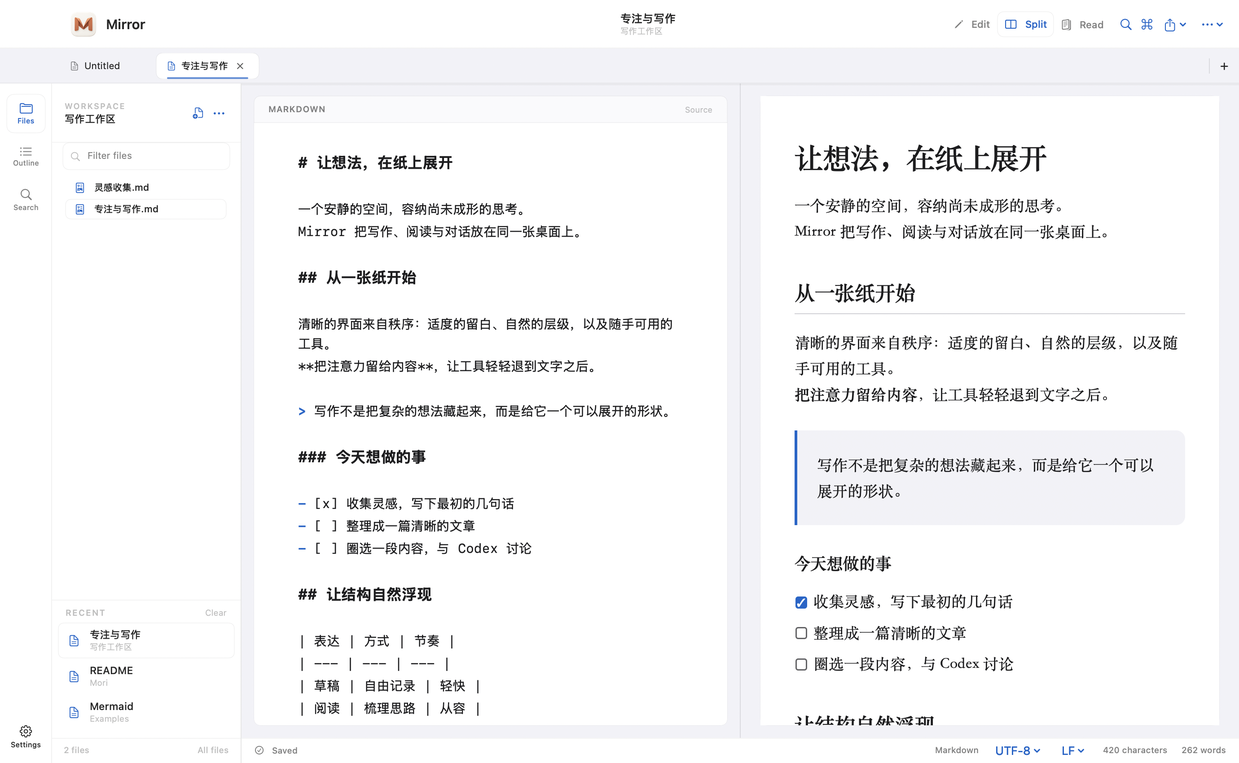
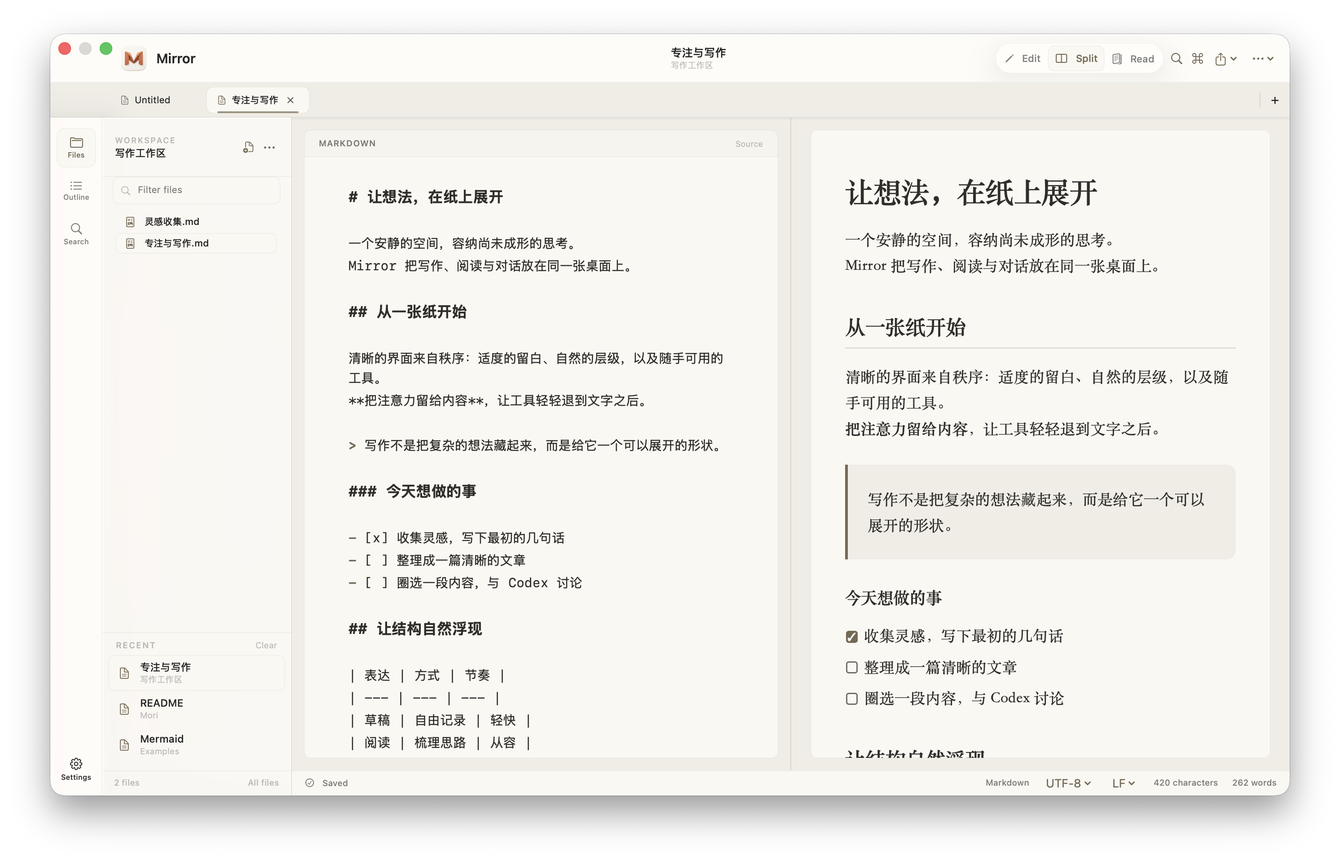
Simplify project overview and refresh v1.1 screenshots

diff --git a/README.md b/README.md
@@ -2,137 +2,40 @@
 
 简体中文 | [English](README_EN.md)
 
-Mirror 是一款原生 macOS Markdown 编辑器，专注于安静、清晰的写作体验。它将文件管理、源码编辑、实时预览与沉浸阅读整理在同一个轻量工作区中，并采用原生玻璃导航、清晰的内容区域和蓝色强调色。
+原生 macOS Markdown 编辑器，把写作、阅读和围绕原文的 AI 讨论放在同一个工作区。
 
-[下载 Mirror 1.1](https://github.com/BoneInk/Mirror/releases/latest) · 支持 macOS 14 及更高版本
+[下载 Mirror 1.1](https://github.com/BoneInk/Mirror/releases/tag/v1.1) · macOS 14+ · Intel / Apple Silicon
 
-## 界面预览
+## Mirror 的重点
 
-### 编辑与实时预览
+- **讨论留在原文旁。** 划词即可打开对话气泡，问题与引用位置关联。下次读到这里，可以点开标记回顾或继续提问；记录支持单独、批量删除。
+- **使用自己的智能体。** 可连接 Codex、Claude Code、Smartwork 等本机运行时或服务。在气泡里切换智能体、模型与支持的思考深度，自动记住选择；也支持自定义接入。
+- **写作与阅读连在一起。** 源码与预览双向同步滚动，一键进入阅读模式；文件树、大纲和本地文档历史随时可用。
+- **文档保留在本地。** 直接编辑 Markdown 文件，Mermaid 图表与数学公式离线渲染，可导出 HTML / PDF。只有发送提问时，问题与引用才会交给所选智能体。
 
-文件树与文档大纲可快速切换；Markdown 源码和格式化预览通过语义锚点保持双向滚动同步。
+## 界面
 
-![Mirror 的文件树、Markdown 源码和实时预览](docs/images/native-editor-light.png)
+![源码编辑与实时预览](docs/images/native-editor-light.png)
 
-### 阅读模式
+![沉浸式阅读](docs/images/native-reader-dark.png)
 
-阅读模式隐藏源码噪音，提供贯穿窗口的纸张画布、章节导航、阅读进度和轻量排版工具。
+## 开始使用
 
-![Mirror 沉浸式阅读模式](docs/images/native-reader-dark.png)
+下载安装包，将 Mirror 拖入 Applications。选中文字后点击「提问」；`Return` 发送，`⌘ Return` 换行，`Esc` 关闭气泡。
 
-### Mermaid 图表
+在设置中配置智能体和气泡记忆。不同运行时需要各自的安装、登录或服务配置；WorkBuddy 需要授权 Token，千问办公目前通过自定义桥接接入。详见[智能体接入说明](docs/agents.md)。
 
-Mermaid 图表在本地离线渲染，可以在分栏模式中一边编辑源码、一边查看结果。
+安装包使用 ad-hoc 签名，尚未完成 Apple 公证。
 
-![Mirror 编辑并预览 Mermaid 时序图](docs/images/mermaid-preview.png)
+## 从源码构建
 
-## 核心功能
-
-- 原生 Markdown 编辑器，支持语法高亮、实时预览及双向滚动同步
-- 工作区文件树、最近文件、标签页、全文搜索和文档大纲
-- 沉浸式阅读模式，可调整阅读宽度、字体、行高与主题
-- 内置表格、代码高亮、图片、HTML、Mermaid 图表和 KaTeX 公式渲染
-- 简体中文默认界面，可切换 English，并支持浅色、深色与自定义主题
-- Codex 对话小窗：圈选内容携带引用，无选区右键新建对话，支持连续追问
-- 自动保存、崩溃恢复、外部修改检测和本地文档历史
-- 导出便携 HTML、PDF，或使用原生 macOS 打印流程
-
-Mirror 兼容常用 CommonMark 与 GitHub 风格 Markdown，包括任务列表、脚注、表格、引用式链接、围栏代码块和安全 HTML。文本与源码文件可直接编辑，图片、PDF 和常见二进制文档可在应用内预览。
-
-## macOS 原生外观
-
-导航、侧边栏和浮动操作采用系统 Liquid Glass，正文使用清晰的实色背景。默认提供 `Mirror Light` 与 `Mirror Dark`，保留已有主题 ID 和自定义色板。macOS 26 使用原生玻璃效果；旧版系统使用标准材质，开启降低透明度或增强对比度时导航采用实色背景。
-
-设计说明见 [原生样式说明](Resources/Brand/NativeStyle.md)。`./scripts/test-native-visual.sh` 在隔离工作区检查各界面。
-
-## 引用对话气泡
-
-- **有选区**：源码编辑区右键选择「引用并提问」，或点击阅读预览中的浮动按钮。小窗自动附上原文和文档来源，可移除引用、补充问题后发送。
-- **原文关联**：引用携带源码行号（阅读预览显示所在段落的起始行），原生 Popover 气泡指向选区，采用系统材质与动画。点击「回到原文」定位并高亮实际选区，重复文本也能区分；发送后仍可回跳。开启记忆后，在已提问的位置留下对话标记，点击可回顾或继续原会话。标记通过引用内容与上下文重新定位；无法唯一匹配时隐藏，避免跳错位置。
-- **无选区**：在源码区或阅读区右键选择「打开对话气泡」，开始独立对话。
-- 气泡初始仅显示引用与输入框，开始对话后展开左右消息气泡；来源只显示一次。支持连续追问、流式回答、停止生成，`Return` 发送，`⌘ Return` 换行（输入法选词时回车不会发送）。Esc 或点击气泡外关闭，并清除原文临时选区；全局只显示一个对话气泡。开启记忆时，关闭气泡后尚未完成的回答会继续接收并保存。
-- 点击「在 Codex 中打开」可打开对应会话；尚未发送时，打开预填问题和引用的新会话。使用当前 Codex 应用的深链接，不需要复制粘贴或 macOS 辅助功能权限。
-
-**设置 → 气泡记忆 → 记住引用位置和对话**：默认开启，只在本机保存，不修改原文。关闭后隐藏标记并停止新增保存；已有记录保留，可重新开启或手动清除。未保存的文档不生成持久位置记忆。
-
-需先安装并登录 Codex 桌面应用或 Codex CLI。Mirror 优先使用桌面应用内置的 Codex，通过本地 stdio App Server 复用登录，不保存登录凭据。小窗用于文档问答，以只读权限运行；需要执行操作时可转到 Codex 应用。仅在点击发送后才提交问题与引用。
-
-接入协议：[Codex App Server](https://learn.chatgpt.com/docs/app-server)。应用深链接以当前安装版本为准。
-
-验证选区、引用格式、会话隔离、多轮流式回复、停止与错误恢复：
+需要 Swift 6 工具链：
 
 ```bash
-bash scripts/test-codex-reference.sh
-bash scripts/test-codex-bubble.sh
-bash scripts/test-codex-memory.sh
-# 锁屏或无前台时仅验证标记/记忆逻辑，跳过原生焦点和截图
-bash scripts/test-codex-memory.sh --headless
-# 可选：用当前 Codex 登录做一次真实回复测试，并输出小窗布局截图
-./scripts/test-codex-reference.sh --live --visual
-```
-
-## 构建
-
-需要 macOS 14 或更高版本，以及 Swift 6 工具链。
-
-```bash
-swift build
 swift run Mirror
+# 生成通用应用与安装包
+bash scripts/build-app.sh release
+bash scripts/build-dmg.sh --skip-build
 ```
 
-生成 Universal 2 应用和可安装 DMG：
-
-```bash
-./scripts/build-app.sh release
-./scripts/build-dmg.sh --skip-build
-```
-
-构建产物位于 `dist/Mirror.app` 和 `dist/Mirror-1.1.dmg`。本地脚本使用临时签名；公开分发仍需 Apple Developer ID 签名和 Apple 公证。
-
-
-### 多智能体引用提问
-
-在 **设置 → 智能体** 中选择默认智能体、添加或编辑连接配置。气泡标题手动切换智能体时，会同步更新并保存设置中的默认值，之后新开的气泡沿用上次选择；已有对话切换时另起一段对话，原记录保留。回顾旧记录不会改变默认值。旧版本的对话继续归属 Codex。
-
-| 智能体 | 接入方式 |
-| --- | --- |
-| Codex | 原有 app-server；自动发现桌面应用 / CLI，可指定命令路径和模型 |
-| Claude Code | 本机 `claude` 的非交互 JSON 输出；复用 CLI 登录 |
-| OpenCode | 本机 `opencode run --format json`；复用 CLI 配置 |
-| Pi Agent | 本机 `pi --print --mode json`；复用 CLI 配置 |
-| OpenClaw | Gateway 的 OpenAI 兼容接口，默认基础地址 `http://127.0.0.1:18789/v1`、智能体 `openclaw/default` |
-| CodeBuddy | `codebuddy` / `cbc` 非交互 JSON 输出；不会将 IDE 启动器 `buddycn` 当作 Agent |
-| Cursor | `cursor-agent` / `agent` 的 Ask 模式；需要安装 Cursor CLI，桌面应用本身不等于 CLI |
-| Kimi | `kimi --quiet --plan`，复用 CLI 登录 |
-| Qoder | `qoder` / `qodercli` 非交互文本输出 |
-| Hermes | 官方 Agent API Server，默认 `http://127.0.0.1:8642/v1`，标识 `hermes-agent`；需启用 API Server 并配置 Key |
-| Smartwork | D-Chat 内置 Agent 原生协议，默认 `http://127.0.0.1:8764`；复用客户端模型和登录 |
-| WorkBuddy | 官方本地助理 Open API；需填入具有 localassistant.readable / invokable 权限的 Access Token，并保持电脑端在线 |
-| 千问办公 | 可配置办公 Agent 包装命令 / 兼容服务；尚未确认公开的问答协议，不等同于普通千问模型接口 |
-| DeepSeek Harness / 自定义 | 配置兼容 HTTP 服务，或通过自定义命令包装专有协议 |
-
-打开设置自动检测常见命令路径（包括 Homebrew、NVM、用户 bin），并列出当前用户可见的本机监听端口。端口列表仅用于定位服务，不推断它是哪个智能体，也不发送测试提问；已配置的 localhost HTTP 服务仅以匿名 `GET /models` 检查响应。Smartwork 另外匿名检查 `/api/agent/health` 的名称与协议标识，本机服务已验证；未知服务需手动填写地址与协议。扫描不会读取认证信息或发起模型调用。
-
-HTTP 配置使用包含 `/v1` 的基础地址、模型/智能体标识，以及可选的 API Key / Bearer Token。认证信息存于 macOS 钥匙串，不写入对话记录。OpenClaw 需要先启用 Gateway 的 `chatCompletions` 端点。远端工具权限由服务端控制。
-
-自定义命令的参数为 JSON 字符串数组，例如 `["--print"]`。Mirror 直接启动可执行文件，不经过 shell；stdin 传入阅读助手说明和 JSON 编码的完整对话，stdout 返回 UTF-8 回答，stderr 用于命令自身诊断。每轮重新启动，包装脚本负责对接专有协议、认证与退出信号。不要把密钥放入参数。
-
-Codex 沿用服务端会话；其他连接每轮携带 Mirror 保存的对话上下文，避免借用 CLI 的“最近会话”。配置快照保存在对应的气泡记忆中，之后修改默认服务不会改变旧记录的去向。Claude / CodeBuddy / Qoder / Pi 禁用内置工具，OpenCode 使用专用阅读配置禁止工具，Cursor 使用 Ask 模式、Kimi 使用 Plan 模式；这些 CLI 选项需要较新版本。未安装或版本不支持时，气泡显示错误并保留问题供重试。
-
-验证：`bash scripts/test-agents.sh` 使用本地假 CLI 与 HTTP 服务覆盖流式输出、Unicode、多轮、取消、错误、重定向阻止、配置持久化和历史归属；不会调用真实模型。
-
-协议依据：[Claude Code](https://code.claude.com/docs/en/headless)、[OpenCode CLI](https://opencode.ai/docs/cli/)、[Pi JSON](https://github.com/badlogic/pi-mono/blob/main/packages/coding-agent/docs/json.md)、[OpenClaw Gateway](https://docs.openclaw.ai/gateway/openai-http-api)。新增协议依据：[CodeBuddy](https://www.codebuddy.ai/docs/cli/cli-reference)、[Cursor](https://prod.cursor.com/docs/cli/using)、[Kimi](https://moonshotai.github.io/kimi-cli/en/reference/kimi-command.html)、[Qoder](https://docs.qoder.com/cli/cli-reference)、[Hermes Agent API](https://hermes-agent.nousresearch.com/docs/user-guide/features/api-server)、[WorkBuddy Open API](https://open.workbuddy.cn/docs/openapi)。Smartwork 对照本机客户端打包的 `smartwork-agent-turns-v1` 实现，并完成匿名健康检查；其余新接口通过模拟服务验证，未发送真实模型问题。
-
-WorkBuddy 使用共享的本地助理消息通道，返回本次消息后的首条文字回复；请避免同时从其他入口向它提问。Mirror 检测到其他用户消息时停止归属这次回复，权限确认需在 WorkBuddy 中处理。停止等待或删除本机记录不会终止 WorkBuddy 中已接收的任务。Access Token 到期后需要重新授权并更新；Mirror 不内置第三方应用的 OAuth 客户端密钥。
-
-千问办公公开开发文档目前展示管理接口，故预设标为待配置；只有接好办公 Agent 桥接后才能使用。不会将 `qwen` 模型 CLI 或阿里云普通模型 API 自动认作千问办公。
-
-
-### v1.1 交互更新
-
-- 划词提问入口跟随鼠标选区的结束端；支持反向拖选、跨行选区和窗口边缘避让。
-- 气泡输入框按 `Return` 发送，`⌘ Return` 插入换行。中文输入法组合文本期间，回车先交给输入法，不发送问题。
-- 气泡详情右上角的垃圾桶按钮和右键菜单可删除当前本机记录；原文旁的气泡标记也支持右键删除。同一位置多条记录可单独删除或全部删除。**设置 → 气泡记忆** 支持搜索、单条删除、批量编辑选择、全选当前结果和批量删除。
-- 删除立即移除原文标记，停止对应的后台生成保存，避免记录重新出现；其他记录不受影响。删除只作用于 Mirror 本机记忆，不删除智能体服务端会话。
-
-- 系统文件目录授权弹窗、文件选择面板和临时失焦不关闭气泡或清空输入；主动点击外部与 Esc 仍可关闭。
+产物位于 `dist/`。回归检查见 `scripts/test-*.sh`。

diff --git a/README_EN.md b/README_EN.md
@@ -2,84 +2,40 @@
 
 [简体中文](README.md) | English
 
-Mirror is a native macOS Markdown editor designed for a calm, clear writing experience. It brings file management, source editing, live preview, and immersive reading into one lightweight workspace, using native glass navigation, clear content surfaces, and a blue accent.
+A native macOS Markdown editor for writing, reading, and AI conversations anchored to your document.
 
-[Download Mirror 1.1](https://github.com/BoneInk/Mirror/releases/latest) · Requires macOS 14 or newer
+[Download Mirror 1.1](https://github.com/BoneInk/Mirror/releases/tag/v1.1) · macOS 14+ · Intel / Apple Silicon
+
+## What Mirror focuses on
+
+- **Conversations beside the text.** Select a passage to ask a question. Reopen its document marker to revisit or continue the discussion. Delete records individually or in batches.
+- **Your choice of agent.** Connect Codex, Claude Code, Smartwork, and other local runtimes or services. Switch agents, models, and supported thinking levels in the bubble. Mirror remembers your choices and supports custom connections.
+- **Writing and reading together.** Source and preview scroll in sync. Switch to reader mode while keeping your file tree, outline, and local document history close at hand.
+- **Local documents.** Edit Markdown files directly, render Mermaid diagrams and math offline, and export HTML or PDF. Questions and quotations are sent to your chosen agent only when you submit them.
 
 ## Screenshots
 
-### Writing and live preview
+![Source editing and live preview](docs/images/native-editor-light.png)
 
-The file tree and document outline are easy to switch between, while Markdown source and formatted preview stay synchronized through semantic anchors.
+![Immersive reading](docs/images/native-reader-dark.png)
 
-![Mirror file tree, Markdown source, and live preview](docs/images/native-editor-light.png)
+## Get started
 
-### Reader mode
+Download the DMG and drag Mirror into Applications. Select text and click Ask. `Return` sends, `⌘ Return` inserts a newline, and `Esc` closes the bubble.
 
-Reader mode removes source-level noise and provides a full-height paper canvas, heading navigation, reading progress, and lightweight typography controls.
+Configure agents and conversation memory in Settings. Each runtime requires its own installation, login, or service configuration. WorkBuddy requires an authorized token; QwenWork currently requires a custom bridge. See the [agent setup guide (Chinese)](docs/agents.md).
 
-![Mirror immersive reader mode](docs/images/native-reader-dark.png)
+The app is ad-hoc signed and has not been notarized by Apple.
 
-### Mermaid diagrams
+## Build from source
 
-Mermaid diagrams render locally and offline, so source and results can be viewed side by side while editing.
-
-![Mirror editing and previewing a Mermaid sequence diagram](docs/images/mermaid-preview.png)
-
-## Core features
-
-- Native Markdown editing with syntax highlighting, live preview, and bidirectional scroll sync
-- Workspace file tree, recent files, tabs, folder search, and document outline
-- Immersive reader mode with adjustable width, typography, line height, and themes
-- Built-in rendering for tables, highlighted code, images, HTML, Mermaid, and KaTeX
-- Simplified Chinese by default, optional English, plus light, dark, and custom themes
-- Autosave, crash recovery, external-change detection, and local document history
-- Portable HTML and PDF export with the native macOS print workflow
-
-Mirror supports commonly used CommonMark and GitHub-style Markdown, including task lists, footnotes, tables, reference links, fenced code, and safe HTML. Text and source files open as editable documents, while images, PDFs, and common binary formats can be previewed inside the app.
-
-## Native macOS appearance
-
-Navigation and floating controls use system Liquid Glass on macOS 26, with standard material fallbacks on earlier versions. Content stays opaque for readability. Mirror Light and Mirror Dark use neutral palettes, while existing theme IDs and custom palettes remain supported. Navigation becomes opaque with Reduce Transparency or Increase Contrast enabled.
-
-Run `./scripts/test-native-visual.sh` for isolated visual checks.
-
-## Build
-
-Requires macOS 14 or newer and the Swift 6 toolchain.
+Requires the Swift 6 toolchain:
 
 ```bash
-swift build
 swift run Mirror
+# Build the universal app and DMG
+bash scripts/build-app.sh release
+bash scripts/build-dmg.sh --skip-build
 ```
 
-Build the Universal 2 app and an installable DMG:
-
-```bash
-./scripts/build-app.sh release
-./scripts/build-dmg.sh --skip-build
-```
-
-Outputs are written to `dist/Mirror.app` and `dist/Mirror-1.1.dmg`. Local builds use an ad-hoc signature; public distribution still requires Apple Developer ID signing and Apple notarization.
-
-## Codex chat panel
-
-Select text and use the source editor context menu or the preview selection button to open a Codex chat with a document reference. Right-click without a selection to start a separate blank chat. Panels support follow-up questions, streamed answers, and cancellation. “Open in Codex” opens the conversation or a prefilled draft through the installed desktop app's deep link, without clipboard or Accessibility access.
-
-The panel uses the local Codex App Server and your existing login. Install and sign in to Codex first. Run `./scripts/test-codex-reference.sh` for offline coverage, or add `--live --visual` for an optional live connectivity test and panel screenshot.
-
-
-### v1.1 interaction updates
-
-The selection action follows the end of the drag, including backward and multiline selections, and stays inside the viewport. Return sends a question; Command-Return inserts a newline. Return during IME composition remains available for candidate confirmation.
-
-Delete a local conversation from the bubble title menu, or use Settings → Bubble Memory to search, select, and delete multiple records. Deleting a record removes its document marker and stops its pending background generation from restoring it. Agent-side sessions are retained.
-
-
-### Agent connections
-
-Settings includes Codex, Claude Code, CodeBuddy, Cursor, Kimi, Qoder, OpenCode, Pi, Hermes, Smartwork, OpenClaw, WorkBuddy, DeepSeek Harness, QwenWork, and custom profiles. CLI adapters reuse local login; Hermes/OpenClaw use their Agent HTTP servers. Smartwork uses the D-Chat local Agent protocol with an anonymous health check. WorkBuddy uses its local-assistant Open API and requires an authorized access token and an online desktop client. Its shared channel should not receive concurrent questions from other apps; stopping Mirror only stops waiting for the reply.
-
-QwenWork (千问办公) is a configurable bridge preset, not a verified native conversation adapter or an alias for a Qwen model API. See the [connection table and setup details](README.md#多智能体引用提问). New protocols have offline fixture coverage; no real inference requests were sent during validation.
-
-System file-access permission prompts and file panels preserve the bubble and its draft. Esc and intentional outside clicks still dismiss it.
+Outputs are in `dist/`. Regression checks are in `scripts/test-*.sh`.

diff --git a/docs/agents.md b/docs/agents.md
@@ -1,0 +1,49 @@
+# 智能体接入
+
+[返回项目首页](../README.md)
+
+在 **设置 → 智能体** 中选择默认智能体、添加或编辑连接配置。气泡标题手动切换智能体时，会同步更新并保存设置中的默认值，之后新开的气泡沿用上次选择；已有对话切换时另起一段对话，原记录保留。回顾旧记录不会改变默认值。旧版本的对话继续归属 Codex。
+
+| 智能体 | 接入方式 |
+| --- | --- |
+| Codex | 原有 app-server；自动发现桌面应用 / CLI，可指定命令路径和模型 |
+| Claude Code | 本机 `claude` 的非交互 JSON 输出；复用 CLI 登录 |
+| OpenCode | 本机 `opencode run --format json`；复用 CLI 配置 |
+| Pi Agent | 本机 `pi --print --mode json`；复用 CLI 配置 |
+| OpenClaw | Gateway 的 OpenAI 兼容接口，默认基础地址 `http://127.0.0.1:18789/v1`、智能体 `openclaw/default` |
+| CodeBuddy | `codebuddy` / `cbc` 非交互 JSON 输出；不会将 IDE 启动器 `buddycn` 当作 Agent |
+| Cursor | `cursor-agent` / `agent` 的 Ask 模式；需要安装 Cursor CLI，桌面应用本身不等于 CLI |
+| Kimi | `kimi --quiet --plan`，复用 CLI 登录 |
+| Qoder | `qoder` / `qodercli` 非交互文本输出 |
+| Hermes | 官方 Agent API Server，默认 `http://127.0.0.1:8642/v1`，标识 `hermes-agent`；需启用 API Server 并配置 Key |
+| Smartwork | D-Chat 内置 Agent 原生协议，默认 `http://127.0.0.1:8764`；复用客户端模型和登录 |
+| WorkBuddy | 官方本地助理 Open API；需填入具有 localassistant.readable / invokable 权限的 Access Token，并保持电脑端在线 |
+| 千问办公 | 可配置办公 Agent 包装命令 / 兼容服务；尚未确认公开的问答协议，不等同于普通千问模型接口 |
+| DeepSeek Harness / 自定义 | 配置兼容 HTTP 服务，或通过自定义命令包装专有协议 |
+
+打开设置自动检测常见命令路径（包括 Homebrew、NVM、用户 bin），并列出当前用户可见的本机监听端口。端口列表仅用于定位服务，不推断它是哪个智能体，也不发送测试提问；已配置的 localhost HTTP 服务仅以匿名 `GET /models` 检查响应。Smartwork 另外匿名检查 `/api/agent/health` 的名称与协议标识，本机服务已验证；未知服务需手动填写地址与协议。扫描不会读取认证信息或发起模型调用。
+
+HTTP 配置使用包含 `/v1` 的基础地址、模型/智能体标识，以及可选的 API Key / Bearer Token。认证信息存于 macOS 钥匙串，不写入对话记录。OpenClaw 需要先启用 Gateway 的 `chatCompletions` 端点。远端工具权限由服务端控制。
+
+自定义命令的参数为 JSON 字符串数组，例如 `["--print"]`。Mirror 直接启动可执行文件，不经过 shell；stdin 传入阅读助手说明和 JSON 编码的完整对话，stdout 返回 UTF-8 回答，stderr 用于命令自身诊断。每轮重新启动，包装脚本负责对接专有协议、认证与退出信号。不要把密钥放入参数。
+
+Codex 沿用服务端会话；其他连接每轮携带 Mirror 保存的对话上下文，避免借用 CLI 的“最近会话”。配置快照保存在对应的气泡记忆中，之后修改默认服务不会改变旧记录的去向。Claude / CodeBuddy / Qoder / Pi 禁用内置工具，OpenCode 使用专用阅读配置禁止工具，Cursor 使用 Ask 模式、Kimi 使用 Plan 模式；这些 CLI 选项需要较新版本。未安装或版本不支持时，气泡显示错误并保留问题供重试。
+
+验证：`bash scripts/test-agents.sh` 使用本地假 CLI 与 HTTP 服务覆盖流式输出、Unicode、多轮、取消、错误、重定向阻止、配置持久化和历史归属；不会调用真实模型。
+
+协议依据：[Claude Code](https://code.claude.com/docs/en/headless)、[OpenCode CLI](https://opencode.ai/docs/cli/)、[Pi JSON](https://github.com/badlogic/pi-mono/blob/main/packages/coding-agent/docs/json.md)、[OpenClaw Gateway](https://docs.openclaw.ai/gateway/openai-http-api)。新增协议依据：[CodeBuddy](https://www.codebuddy.ai/docs/cli/cli-reference)、[Cursor](https://prod.cursor.com/docs/cli/using)、[Kimi](https://moonshotai.github.io/kimi-cli/en/reference/kimi-command.html)、[Qoder](https://docs.qoder.com/cli/cli-reference)、[Hermes Agent API](https://hermes-agent.nousresearch.com/docs/user-guide/features/api-server)、[WorkBuddy Open API](https://open.workbuddy.cn/docs/openapi)。Smartwork 对照本机客户端打包的 `smartwork-agent-turns-v1` 实现，并完成匿名健康检查；其余新接口通过模拟服务验证，未发送真实模型问题。
+
+WorkBuddy 使用共享的本地助理消息通道，返回本次消息后的首条文字回复；请避免同时从其他入口向它提问。Mirror 检测到其他用户消息时停止归属这次回复，权限确认需在 WorkBuddy 中处理。停止等待或删除本机记录不会终止 WorkBuddy 中已接收的任务。Access Token 到期后需要重新授权并更新；Mirror 不内置第三方应用的 OAuth 客户端密钥。
+
+千问办公公开开发文档目前展示管理接口，故预设标为待配置；只有接好办公 Agent 桥接后才能使用。不会将 `qwen` 模型 CLI 或阿里云普通模型 API 自动认作千问办公。
+
+
+
+## 模型与思考深度
+
+气泡顶部的调节按钮可设置模型 ID 和思考深度，并同步保存到设置。留空表示沿用智能体默认配置。对已有讨论应用新配置会开启新对话，保留旧记录与未发送草稿。
+
+- Codex、Claude Code、Pi 支持显式思考深度；可用级别取决于模型和本机 CLI 版本。
+- Smartwork 支持模型 ID（或 `provider::model`），思考深度由客户端管理。
+- 其他原生 CLI 与兼容 HTTP 接入支持模型配置；WorkBuddy、自定义命令由对应客户端或包装脚本管理。
+- 暂未确认深度协议的接入不会发送推测参数。Pi 参数依据[官方 CLI 文档](https://github.com/badlogic/pi-mono/tree/main/packages/coding-agent#model-options)。

diff --git a/docs/releases/v1.1.md b/docs/releases/v1.1.md
@@ -1,18 +1,16 @@
-Mirror v1.1 改进了引用提问、智能体配置和对话记录管理。
+Mirror v1.1：在原文旁提问、回顾讨论，并连接你自己的智能体。
 
-- 划词提问入口跟随选区结束端，支持跨行、反向选择和窗口边缘避让。
-- 输入框默认 Return 发送，⌘ Return 换行；中文输入法选词时不误发送。
-- 原生对话气泡提供显示动画、自动聚焦、原文定位、流式回答和连续追问；全局保持一个气泡，支持 Esc 和点击外部关闭。
-- 引用位置可保留对话标记。气泡菜单支持删除单条本机记录，设置支持搜索、批量选择和批量删除；删除后的后台回调不会恢复记录。
-- 支持 Codex、Claude Code、CodeBuddy、Cursor、Kimi、Qoder、OpenCode、Pi Agent 的命令行接入，Hermes / OpenClaw 的 Agent HTTP 服务，D-Chat Smartwork 原生本地服务和 WorkBuddy 本地助理 Open API。
-- 提供 DeepSeek Harness、千问办公及其他服务的可配置桥接。千问办公尚未确认公开问答协议，需自行配置办公 Agent 包装命令或兼容服务。
-- 本地命令及监听端口检测、Smartwork 协议健康检查；认证信息保存在 macOS 钥匙串。
-- 系统目录授权提示和文件选择面板不会关闭气泡或丢失输入；Esc 和主动点击气泡外仍可关闭。
-- 历史对话保留智能体配置归属，切换智能体可另起对话；旧 Codex 记录兼容保留。
-- 更新原生界面样式和应用图标。
+本次安装包更新包含：
 
-安装：下载 Mirror-1.1.dmg，将 Mirror.app 拖入 Applications。支持 macOS 14 及以上，安装包同时包含 Intel（x86_64）和 Apple Silicon（arm64）。
+- 默认主题改为宣纸暖白与米灰配色，同步更新界面截图。
+- 气泡内可配置模型与支持的思考深度，并记住配置。
+- 气泡详情和原文标记支持直接删除，设置支持批量管理。
+- 手动切换智能体后，同步记住设置中的默认值。
+- 修复引用高亮残留和整段列表误高亮；兼容系统文件授权弹窗。
+- 保留选区末端定位、Return 发送、⌘ Return 换行与多智能体接入。
 
-验证覆盖模拟智能体调用、双向选区定位、输入法与快捷键、单条/批量删除、后台取消、标记刷新及历史兼容。Smartwork 已完成本机健康检查；新接入的问答协议通过模拟服务验证，未发送真实推理请求。WorkBuddy 需配置开放平台 Access Token，使用共享本地助理通道；停止等待不终止客户端任务。删除仅影响 Mirror 本机记录，不删除智能体服务端会话。
+下载 **Mirror-1.1.dmg**，拖入 Applications。支持 macOS 14+，包含 Intel / Apple Silicon。安装包为 ad-hoc 签名，尚未 Apple 公证。
 
-完整接入方式与限制见 [使用说明](https://github.com/BoneInk/Mirror/blob/v1.1/README.md#多智能体引用提问)。安装包采用 ad-hoc 签名，未做 Apple Developer ID 公证。
+本次更新保留 v1.1 标签；安装包的代码对应 [0844c86](https://github.com/BoneInk/Mirror/commit/0844c86)，包含首次发布后的修复。校验值见 SHA256SUMS.txt。
+
+[项目介绍](https://github.com/BoneInk/Mirror#readme) · [智能体配置与接入限制](https://github.com/BoneInk/Mirror/blob/main/docs/agents.md)
